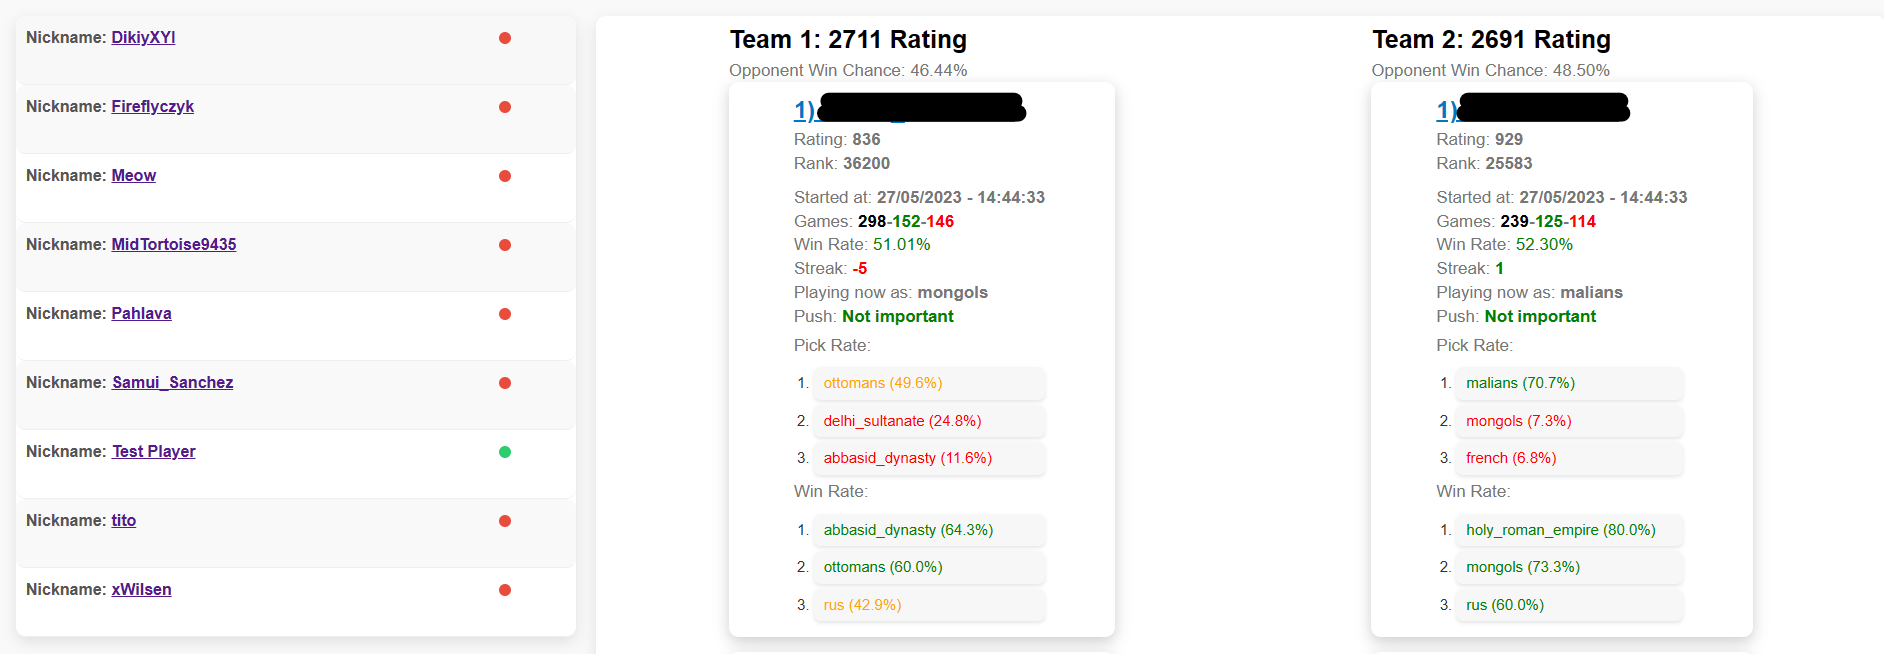
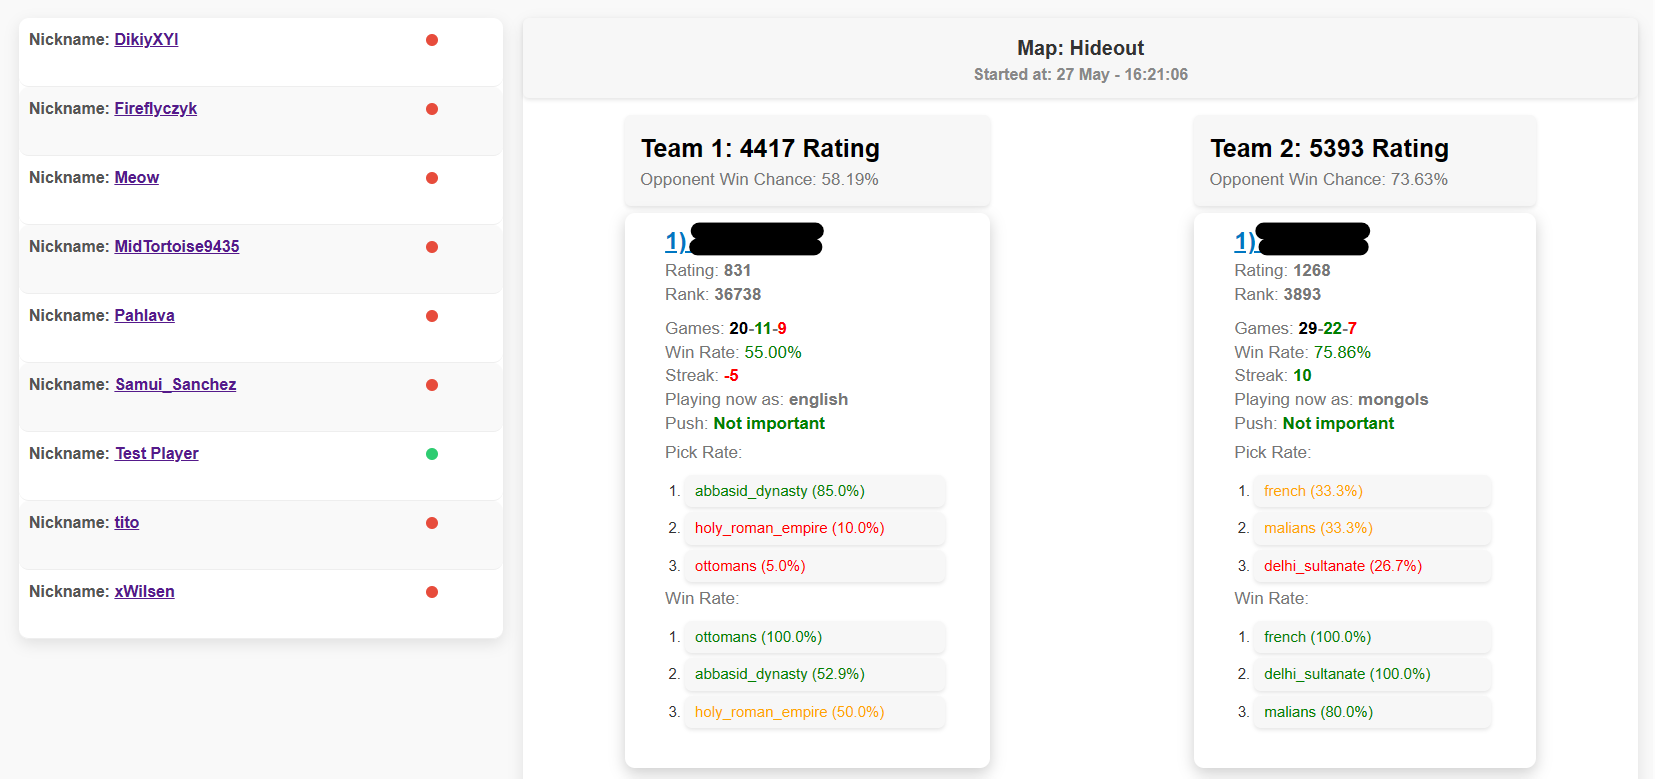
Added general game info (started ad time and map name)

diff --git a/style.css b/style.css
@@ -77,7 +77,6 @@ ul.team-list li:hover {
   border-radius: 10px;
   background-color: #fff;
   box-shadow: 0 5px 15px rgba(0, 0, 0, 0.1);
-  padding: 2px;
   display: flex;
   flex-wrap: wrap;
   justify-content: space-around;
@@ -102,18 +101,34 @@ ul.team-list li:hover {
   padding-left: 15px;
 }
 
-.map-info {
+.team-info {
   background-color: #f7f7f7;
-  border-radius: 8px;
-  padding: 20px;
-  box-shadow: 0 4px 8px rgba(0, 0, 0, 0.1);
-  margin: 10px 0;
-  height: 60px;
+  border-radius: 6px;
+  padding: 15px;
+  box-shadow: 0 2px 4px rgba(0, 0, 0, 0.1);
+  margin: 7px 0;
   transition: box-shadow 0.3s ease;
 }
 
+.team-info:hover {
+  background-color: #eaeaea;
+  cursor: default;
+}
+
+.map-info {
+  background-color: #f7f7f7;
+  border-radius: 6px;
+  padding: 15px;
+  box-shadow: 0 2px 4px rgba(0, 0, 0, 0.1);
+  margin: 0px 0px 10px 0px;
+  height: 50px;
+  transition: box-shadow 0.3s ease;
+  width: 100%; 
+  text-align: center;
+}
+
 .map-info:hover {
-  box-shadow: 0 5px 20px rgba(0, 0, 0, 0.3);
+  background-color: #eaeaea;
   cursor: default;
 }
 
@@ -299,7 +314,7 @@ ol li:hover {
   background-color: #0062cc;
 }
 
-@media screen and (max-width: 1496px) {
+@media screen and (max-width: 1150px) {
   .container {
     display: block;
     margin: 20px 5px;

diff --git a/app.js b/app.js
@@ -14,7 +14,7 @@ let storedVersion = localStorage.getItem('appVersion');
  * Represents the current version of the application.
  * @type {string}
  */
-let currentVersion = '1.1.0';
+let currentVersion = '1.1.1';
 
 /**
  * Represents the element that displays version information in the DOM.
@@ -49,7 +49,6 @@ const teamToTrack = [
   { id: '14204836-Fireflyczyk', nickname: 'Fireflyczyk' },
   { id: '11545849-xWilsen', nickname: 'xWilsen' },
   { id: '12169683-Pahlava', nickname: 'Pahlava' },
-  { id: '12158469-', nickname: 'Test Player' },
 ].sort((a, b) => a.nickname.localeCompare(b.nickname));
 
 /**
@@ -396,12 +395,12 @@ const renderGameInfo = async ({ playerId, team1, team2, map, started_at }) => {
 
   const gameInfoDiv = document.querySelector('.game-info');
   gameInfoDiv.innerHTML = `
-    <div>
-      ${createTeamDiv(team1, 'Team 1')}
-    </div>
-    <div class='map-info'>
+  <div class='map-info'>
       <h3>Map: ${map}</h3>
       <h3>Started at: ${formattedDate} - ${formattedTime}</h3>
+    </div>
+    <div>
+      ${createTeamDiv(team1, 'Team 1')}
     </div>
     <div>
       ${createTeamDiv(team2, 'Team 2')}

diff --git a/index.html b/index.html
@@ -52,6 +52,7 @@
         <i>Push or not to push</i> logic was updated based on players' statistics and current playing civilization.
       </li>
       <li><strong>New popup</strong> indicating the most current updates.</li>
+      <li>Added map info (Map and Started Time)</li>
     </ul>
     <button id="close-popup">Close</button>
   </div>
